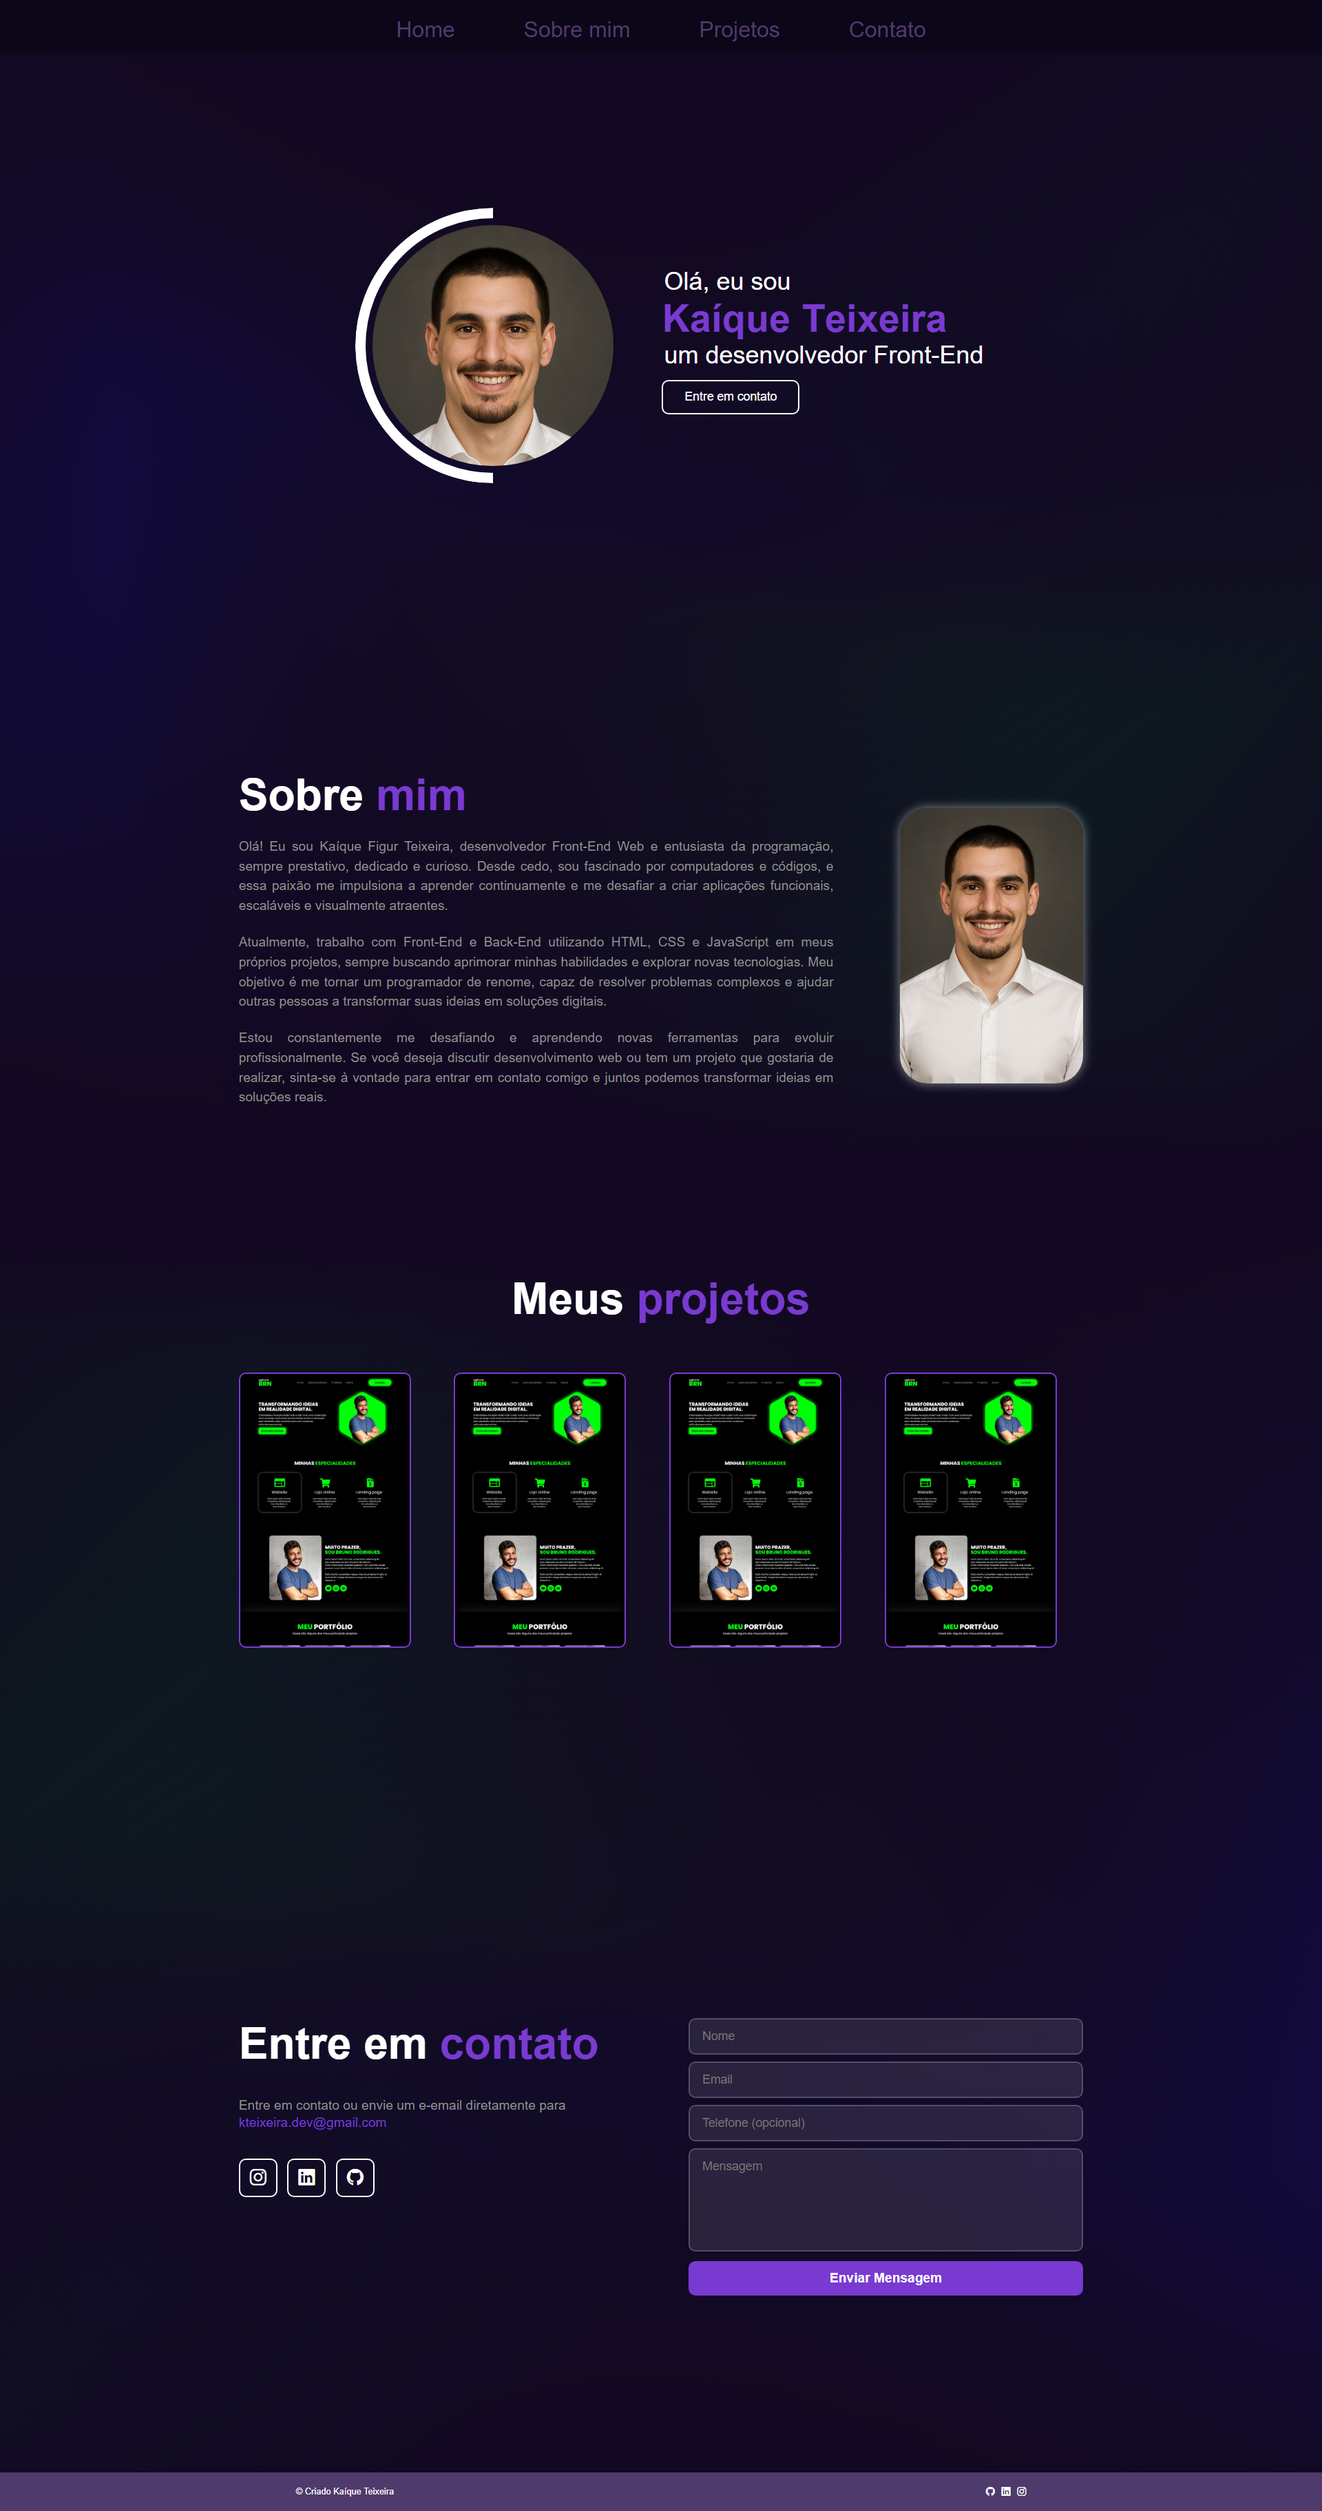
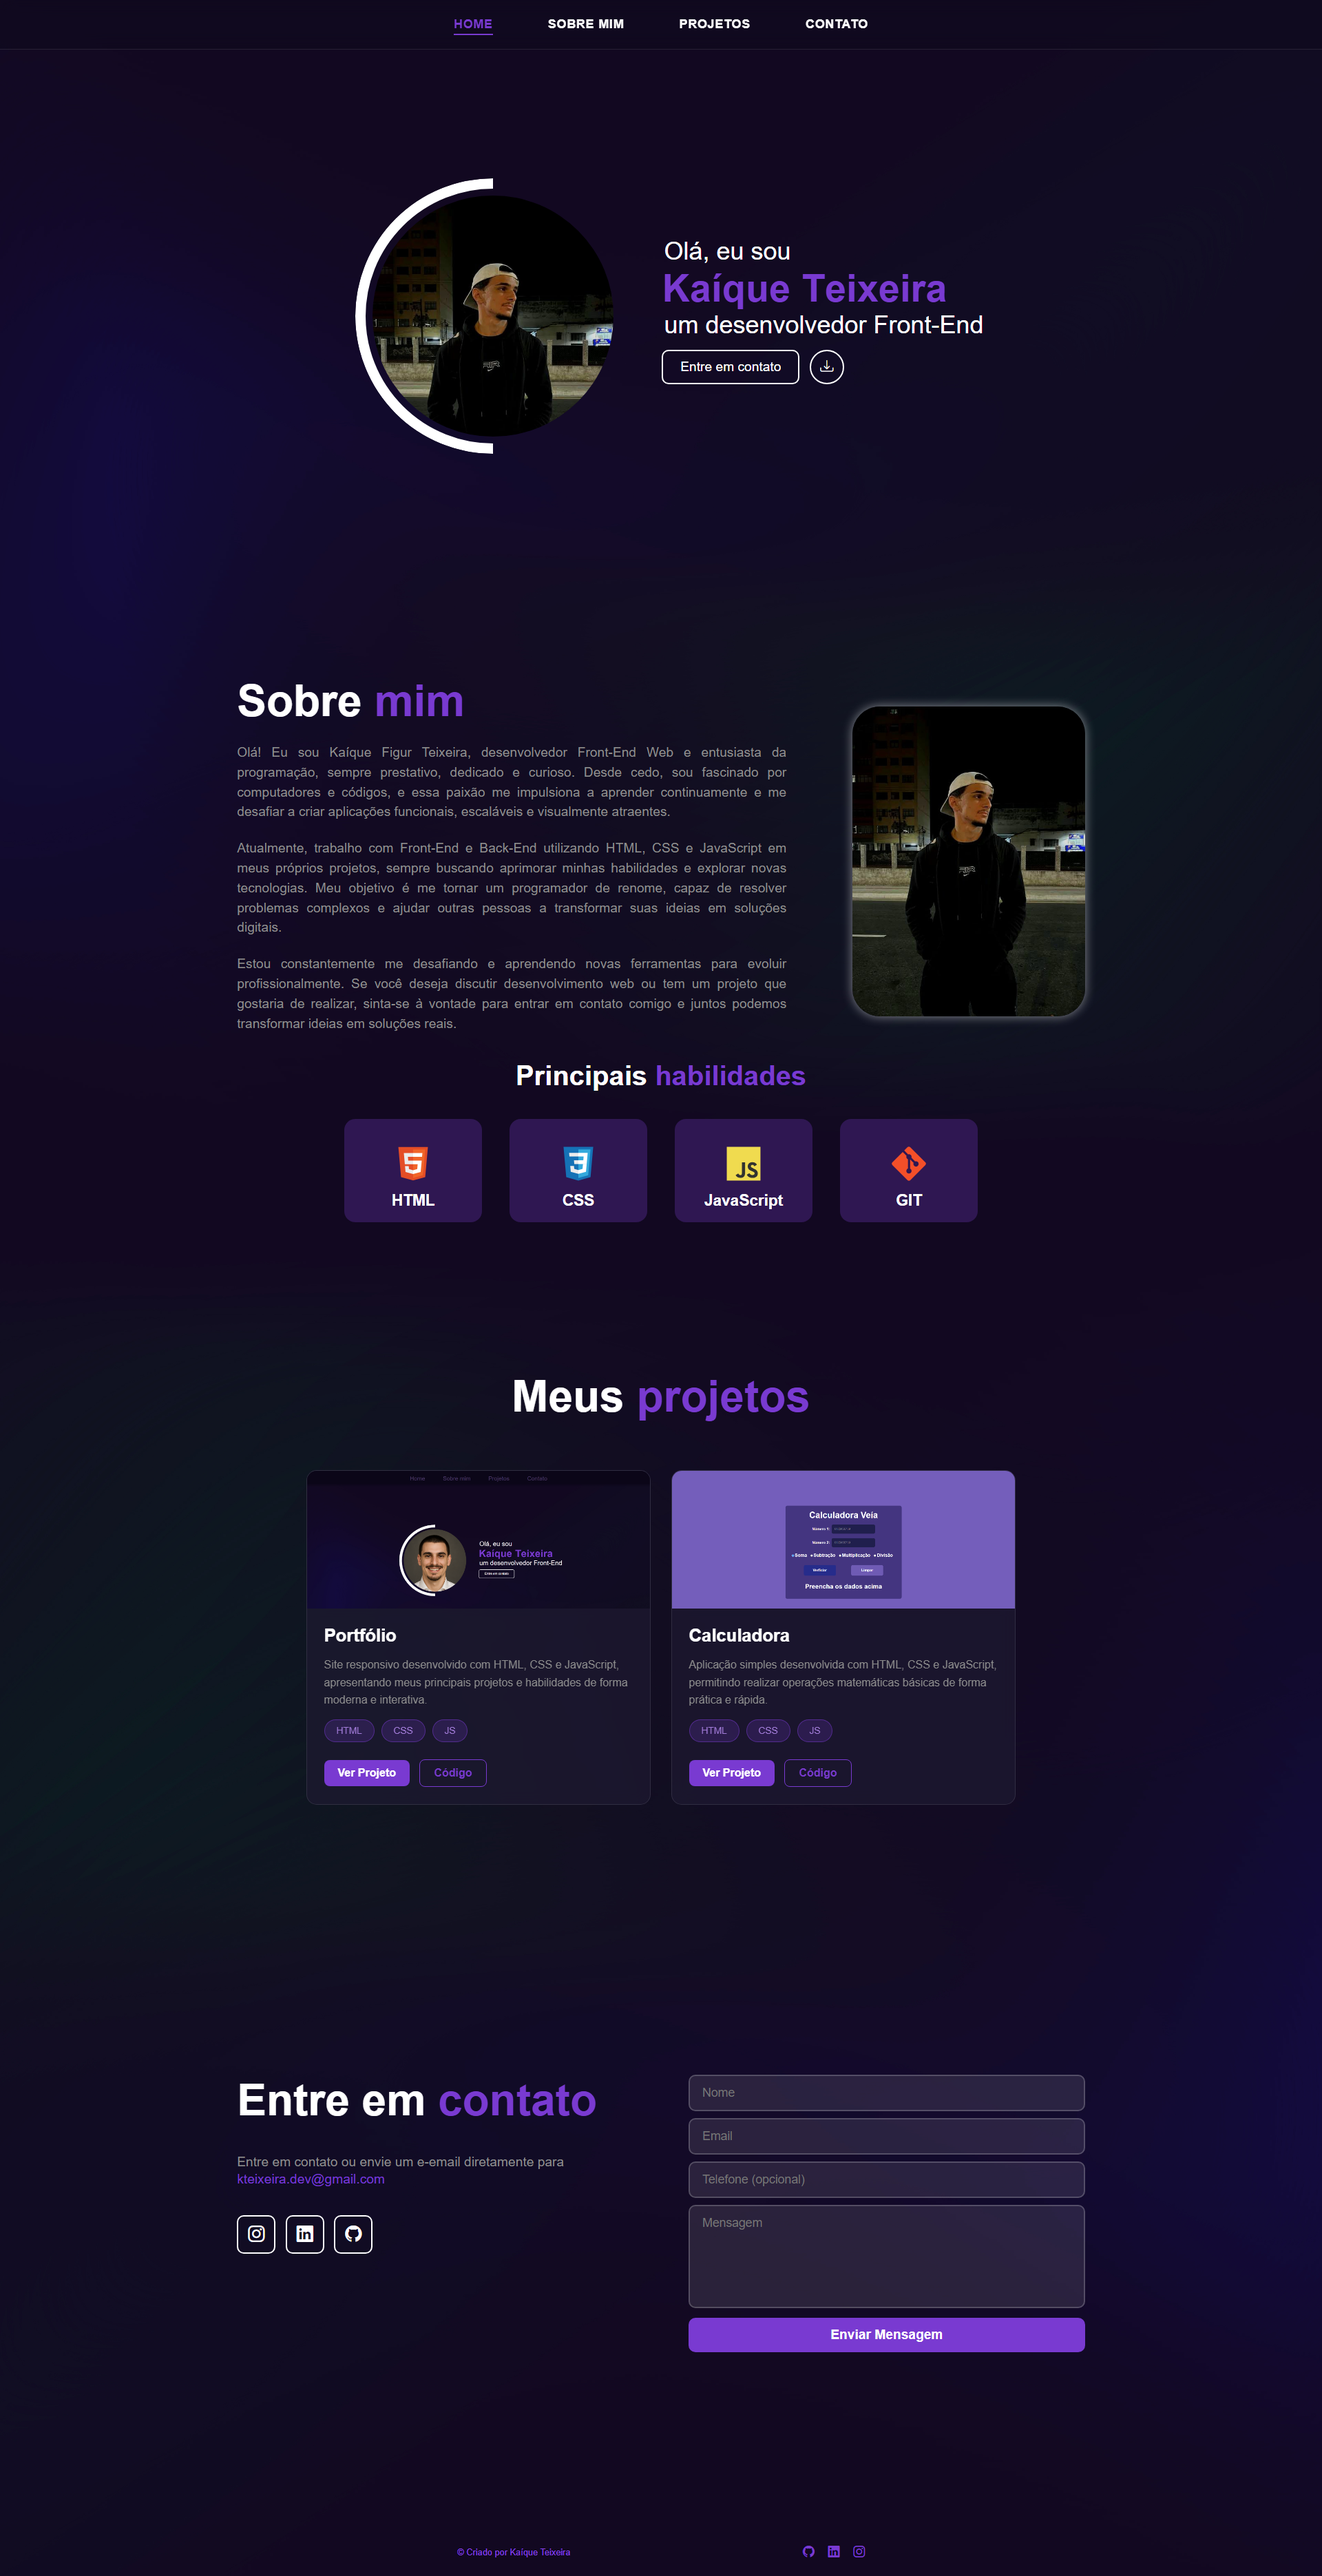
Alterando a paste de imagens

diff --git a/index.html b/index.html
@@ -29,7 +29,7 @@
             <div class="interface">
                         
                 <div class="img-home">
-                    <img src="src/image/Foto.jpg" alt="Foto de Kaíque Figur Teixeira">
+                    <img src="src/image/Foto-Minha.jpg" alt="Foto de Kaíque Figur Teixeira">
                     <div class="arco-branco"></div>
                 </div> <!--img-home-->
 
@@ -68,7 +68,7 @@
                     </div><!--text-sobre-->
                     
                     <div class="img-sobre">
-                        <img src="src/image/Foto.jpg" alt="">
+                        <img src="src/image/Foto-Minha.jpg" alt="">
                     </div><!--img-sobre-->
                 </div>
 
